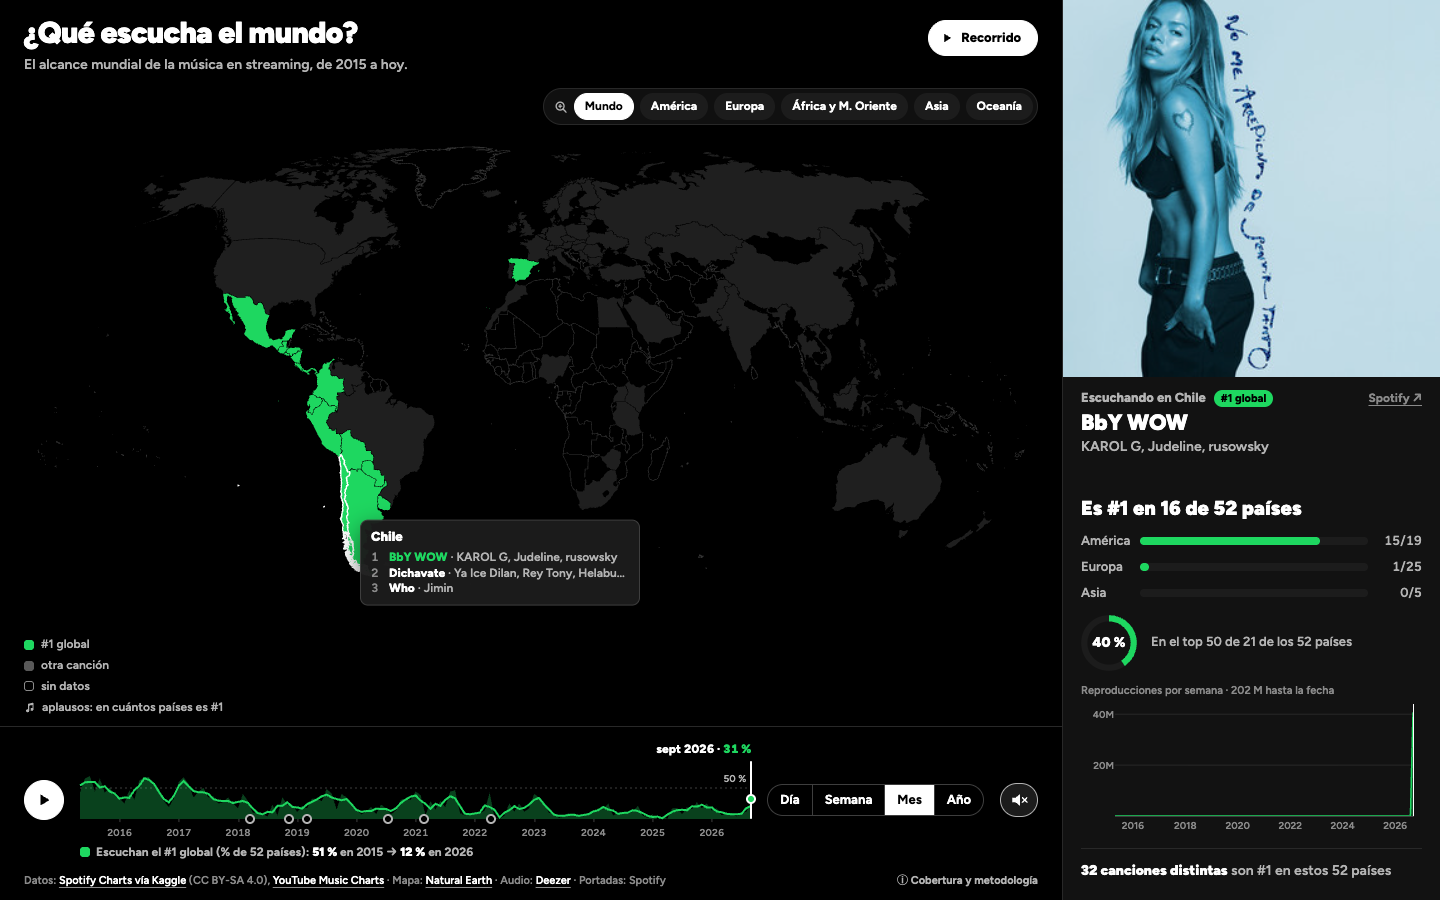
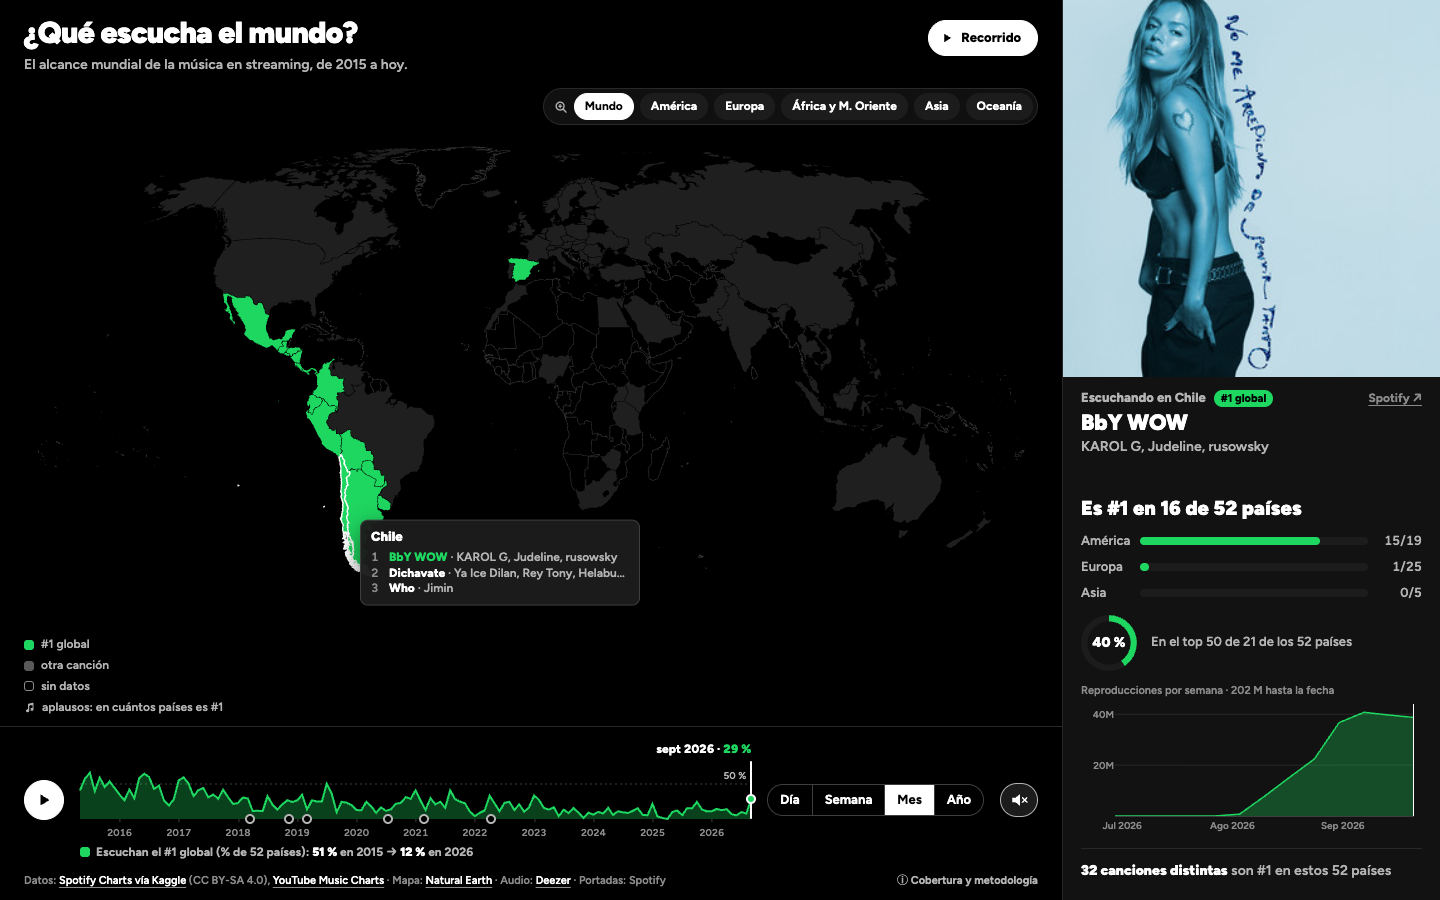
Registro: efecto de la ronda 1 en la V4 (adoptado y no adoptado) y README de la V4 condensado a sus límites

Changed region(s): [[0.8125, 0.7778, 1.0, 0.9333], [0.0625, 0.84, 0.5, 0.9333], [0.5, 0.84, 0.5312, 0.8711]]

diff --git a/v4/README.md b/v4/README.md
@@ -18,9 +18,9 @@ Son los mismos estados que en la [V3](../v3/README.md), para compararlos lado a 
 | | |
 |---|---|
 | ![Vista general](evidencia/01-vista-general.png) | ![Cursor sobre Chile](evidencia/02-hover-chile.png) |
-| La fecha lleva su cifra («sept 2026 · 31 %»), con un punto sobre el área. El control para acercar va sobre el mapa. | Cursor sobre Chile: el recuadro con su top 3 y el panel con su #1. |
+| La fecha lleva su cifra, con un punto sobre la línea, y el título del eje dice el mensaje. El control para acercar va sobre el mapa. | Cursor sobre Chile: el recuadro con su top 3 y el panel con su #1. |
 | ![País fijado](evidencia/03-pais-fijado.png) | ![Europa](evidencia/04-acercar-europa.png) |
-| Click en Brasil: se fija el país. | «Europa» solo acerca el mapa: el panel sigue contando los 52 países. |
+| Click en Brasil: se fija el país. Las reproducciones se encuadran en su paso por los charts (jul.–sept. 2026). | «Europa» solo acerca el mapa: el panel sigue contando los 52 países. |
 | ![Sin datos](evidencia/05-sin-datos-2015.png) | ![1366×768](evidencia/06-pantalla-1366.png) |
 | Kenia en 2015: sin datos. | A 1366×768, el título va en una línea y los artistas se ven. |
 
@@ -34,35 +34,28 @@ Son los mismos estados que en la [V3](../v3/README.md), para compararlos lado a 
 
 ## Qué cambió respecto a V3 (máx. 8 líneas)
 
-1. **Los botones de región solo acercan el mapa.** El panel, el eje y la diversidad cuentan siempre los 52 países. Van sobre el mapa, arriba a la derecha y con una lupa.
-2. **La línea de tiempo dice qué muestra:** la cifra junto a la fecha («jun 2015 · 65 %»), un punto verde sobre el valor y un título con la muestra verde de la leyenda.
-3. **El mensaje se afirma en la vista:** el título del eje dice «51 % en 2015 → 12 % en 2026», y el recorrido cierra con esas mismas cifras.
-4. **Panel a 1366×768:** el título va en una línea y ya no tapa a los artistas.
-5. **Textos coherentes con el sonido:** el recorrido decía «top 50» (los aplausos cuentan dónde es #1) y el botón decía «de 2013 en un minuto».
-6. **Ficha «Cobertura y metodología»** (PR #2, José Tomás Larraín): se abre a pedido debajo de la vista y explica qué países, fuentes y fechas usa cada cifra.
+1. **Los botones de región solo acercan el mapa:** van sobre él, con una lupa, y el zoom manual no se aleja más allá del mundo.
+2. **La línea de tiempo se lee:** la cifra va junto a la fecha, con un punto sobre la línea. Mide lo mismo con día, semana, mes o año (el promedio de los días).
+3. **El mensaje está en la vista:** el título del eje y el cierre del recorrido dicen «51 % en 2015 → 12 % en 2026».
+4. **Las reproducciones se encuadran** en el paso de cada canción por los charts.
+5. **El panel no se tapa a 1366×768**, y los textos del recorrido coinciden con lo que codifica el sonido.
+6. **Ficha «Cobertura y metodología»** (PR #2, José Tomás Larraín), a pedido, debajo de la vista.
 
 ## Por qué cambió — el rationale (máx. 12 líneas)
 
-- **R3, los continentes parecían filtros.** Revisándolo vimos que en parte sí filtraban: el panel pasaba a «N de 19 países de América» mientras el mapa y el eje seguían contando el mundo. Eran dos ámbitos a la vez.
-  - Ahora solo acercan, que es su propósito: un atajo para no arrastrar ni hacer zoom a mano.
-  - Van sobre el mapa por proximidad (un control de vista, junto a lo que mueve) y lejos de la leyenda que explica los datos.
-  - La lupa es la convención del zoom.
-- **R3 y dos personas externas, la línea de tiempo no se entendía.** No se sabía qué medía la altura.
-  - Rotulado directo: la cifra en la fecha evita leer contra un eje sin marcas, y es el mismo % del titular del panel.
-  - La muestra verde del título repite la de la leyenda del mapa (similitud): el área cuenta los países pintados de verde.
-  - El punto sobre el valor además indica que el eje se puede arrastrar.
-- **Auditoría, la vista general debe decir el mensaje.** El título pregunta «¿Qué escucha el mundo?» y la respuesta solo aparecía tras ver correr 11 años. Ahora la dice el título del eje, en rotulado directo y no como un texto aparte. El recorrido terminaba en un mes atípico (sept. 2026: 31 %) que contradecía el 12 % del año, así que ahora cierra con la misma medida.
-- **Auditoría, alineado y ordenado (§11).** Un panel que se tapa a sí mismo en una pantalla común rompe la jerarquía.
-- **Coherencia del sonido.** Si la leyenda y el recorrido explican los aplausos de forma distinta, el sonido no se entiende (heurística de Zuk-Carpendale).
-- **Contexto a pedido (PR #2).** Responde a la heurística «falta contexto» sin sumar texto a la vista: la muestra fija, sus límites y las fuentes quedan a un click (*details on demand*).
+- **R3, las regiones parecían filtros, y en parte lo eran:** el panel pasaba a «N de 19 países de América» mientras el mapa y el eje seguían contando el mundo. Ahora solo acercan, que es su propósito. Van sobre el mapa por proximidad (es un control de vista) y la lupa es la convención del zoom.
+- **R3 y thinking aloud, el eje no se entendía.** Raúl supuso que las líneas «deberían ser más o menos las mismas» en cada granularidad, y no lo eran: cada una comparaba el #1 del período (2025: 0 % en «Año», 25 % en diciembre). Ahora todas promedian los mismos días. La cifra junto a la fecha (rotulado directo) y el punto sobre la línea evitan leer contra un eje sin marcas. La muestra verde conecta el área con los países verdes del mapa (similitud).
+- **Auditoría, vista general:** el título pregunta y la respuesta tardaba 11 años en verse. Ahora la dicen el eje y el cierre del recorrido.
+- **Thinking aloud, reproducciones y zoom:** «una canción de hace un mes queda en el extremo derecho y no aporta nada». Además, alejado más allá del mundo, el mapa daba «saltos abruptos».
+- **§11 y heurísticas:** un panel que se tapa a sí mismo rompe el orden. Si la leyenda y el recorrido explican distinto los aplausos, el sonido no se entiende. El contexto (muestra, fuentes, fechas) queda a un click (*details on demand*).
 
 ## Qué se descartó (máx. 5 líneas)
 
-- **Convertir las regiones en un filtro real:** repetiría las barras por continente del panel y exigiría series por continente en el eje. El mensaje es mundial.
-- **Reducir la portada:** escuchar la canción y ver el disco es parte de la identidad del concepto desde la V1. Se arregló el desborde sin cambiar su tamaño.
-- **Quitar la media móvil del eje** (probado): con el valor exacto de cada mes el borde quedaba dentado, y la caída de 51 % a 12 % se leía peor.
-- **Agregar más datos o funciones:** la versión final ajusta, no suma piezas.
-- **El aviso «titular pendiente / ámbito mundial» del PR #2:** con regiones que solo acercan no hay ámbitos distintos que avisar, y durante la reproducción se encendía con cada carga del panel.
+- **Regiones como filtro real:** repetiría las barras por continente del panel. El mensaje es mundial.
+- **Reducir la portada:** ver el disco mientras suena es la identidad del concepto desde la V1.
+- **Mostrar los 5 continentes en el panel**, que Raúl echó de menos: con 1 o 2 países por fila, una barra exageraría (1 de 1 = 100 %). La ficha explica el mínimo de 3. [REVISAR: decisión del grupo]
+- **Cambiar la activación del sonido:** el navegador exige un click o una tecla, así que no hay forma de que suene al entrar. El botón de sonido ya pulsa mientras está apagado.
+- **Los avisos de ámbito del PR #2 y la media móvil del eje de la V3:** sin ámbitos distintos, los avisos sobran. La media móvil separaba el punto de la línea.
 
 ## Balance del recorrido
 

diff --git a/readmes/evaluacion-usuarios.md b/readmes/evaluacion-usuarios.md
@@ -117,4 +117,13 @@ Columnas: tiempo · lo que dice · lo que hace.
 
 ### Efecto en el proceso
 
-V4 preliminar (`70b84c6`) → V4 final (tag `v4`): [COMPLETAR cuando se apliquen los cambios].
+Lo aprendido se incorporó en la transición **V4 preliminar (`70b84c6`) → V4 final (tag `v4`)**:
+- **Adoptado:**
+  - el eje mide lo mismo en todas las granularidades y el punto va sobre la línea (`ebd4610`);
+  - las reproducciones se encuadran en el paso de cada canción por los charts (`9cd4792`);
+  - el zoom manual no se aleja más allá del mundo (`f9d8c5d`).
+- **No adoptado, y por qué:**
+  - los 5 continentes en el panel: con 1 o 2 países por fila una barra exageraría, y la ficha explica el mínimo;
+  - la activación del sonido: el navegador exige un click o una tecla, y el botón ya pulsa;
+  - fijar con click: lo descubrió solo al segundo intento, así que se mantiene la regla «pasar muestra, click fija»;
+  - los hitos: los valoró como «bien ubicados».
